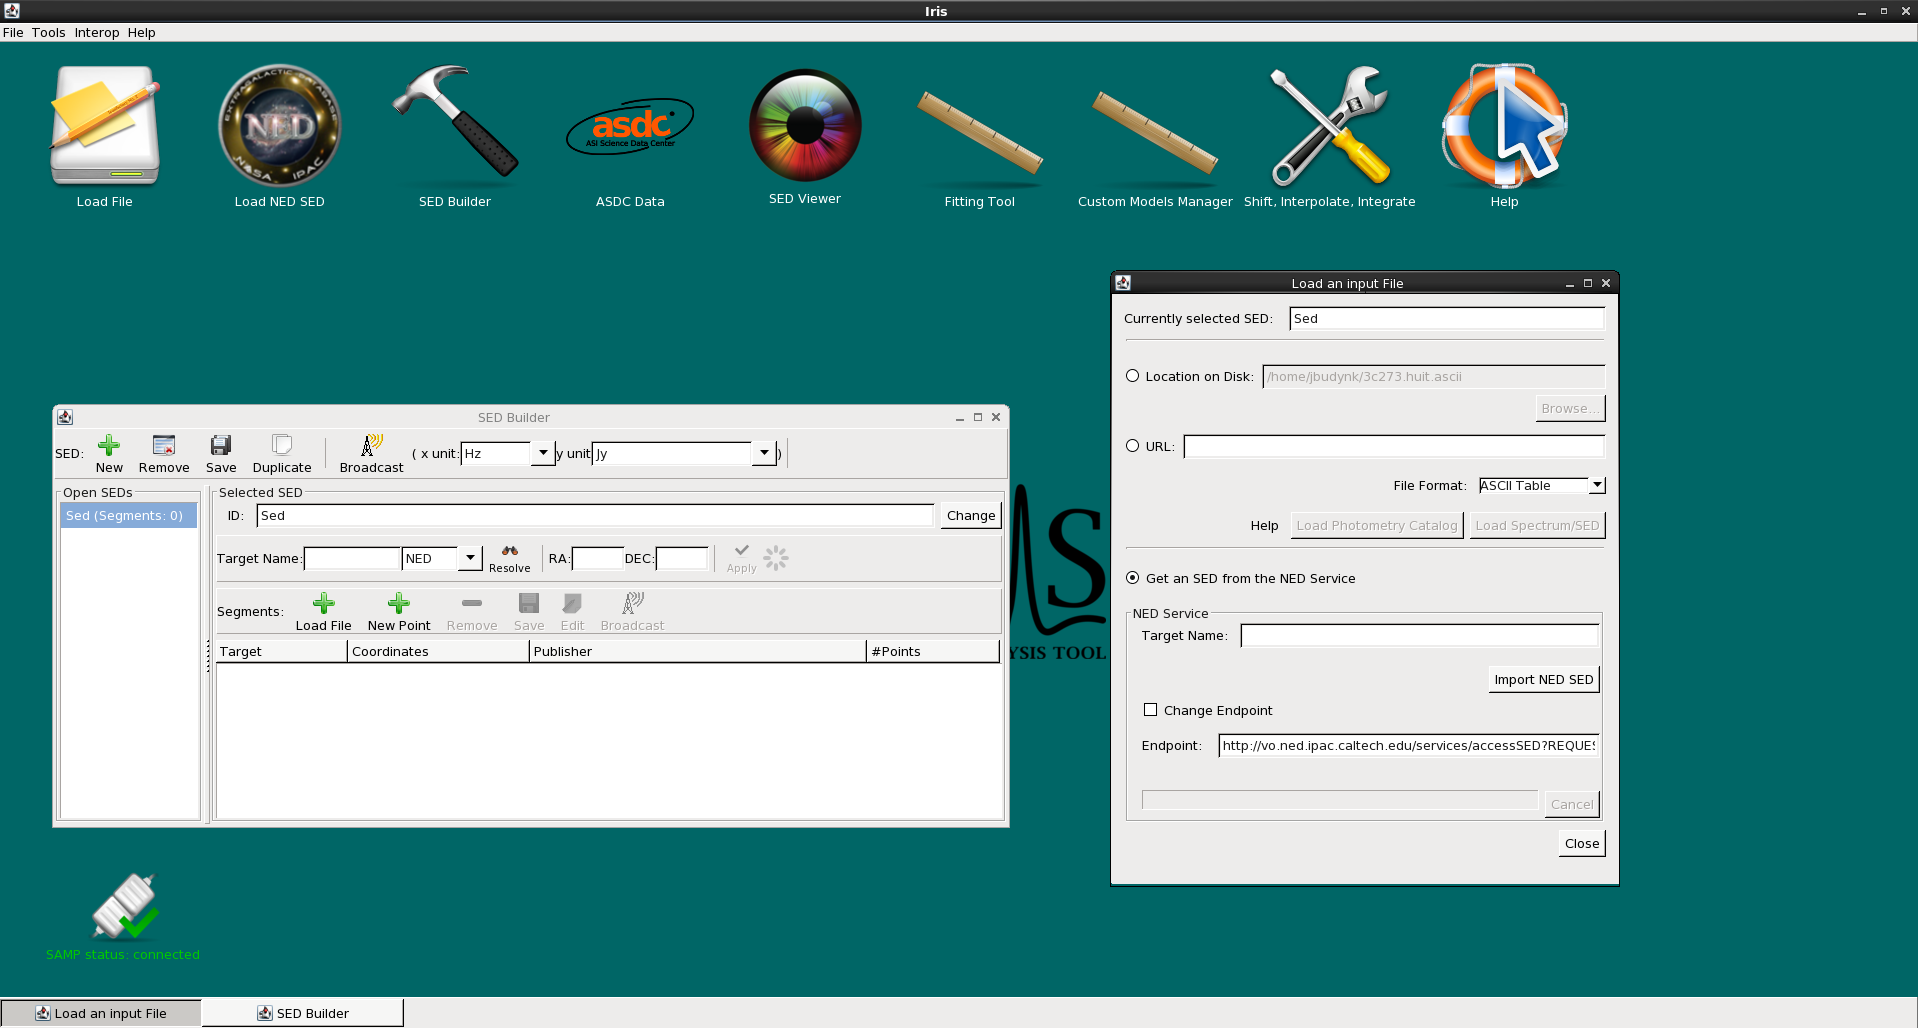
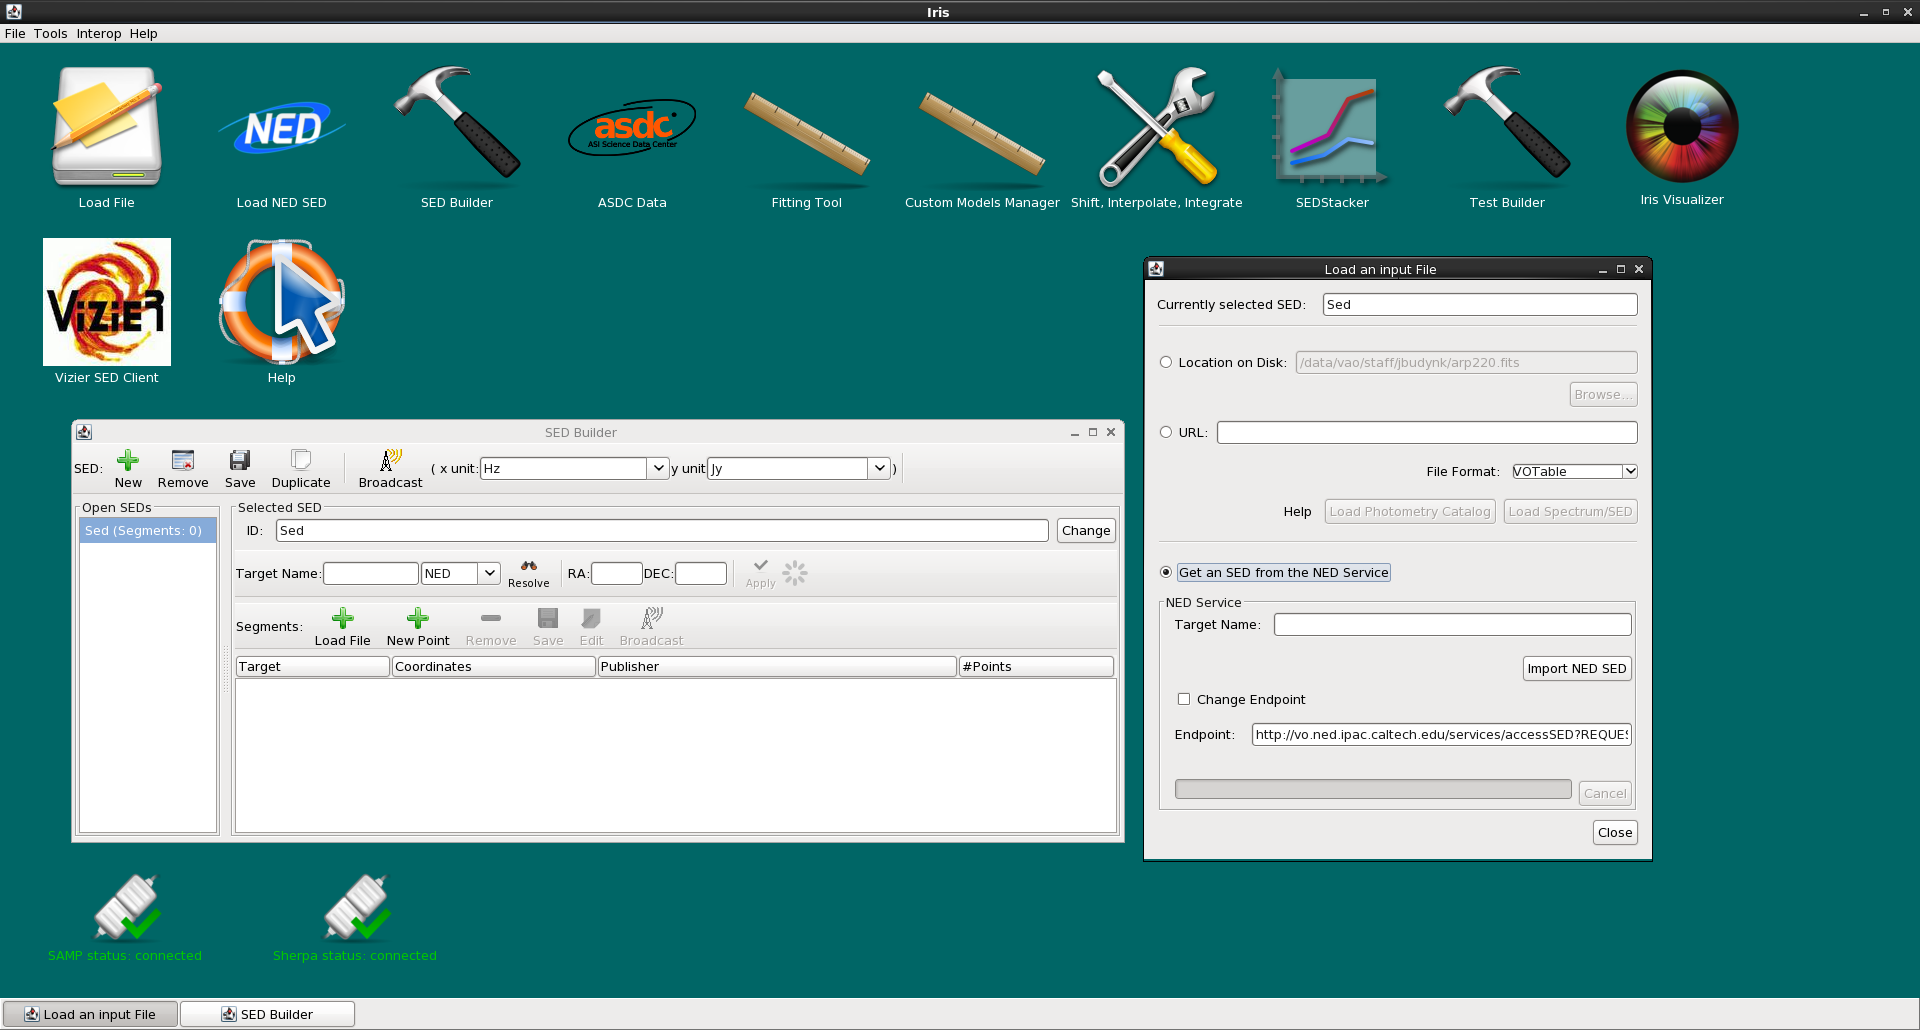
Update images and text for Iris 3.0

diff --git a/markdown/threads/importer/index.md b/markdown/threads/importer/index.md
@@ -146,7 +146,7 @@ $ iris &
 ```
 
 [![Iris desktop with SED Builder
-open](./imgs/load_file_windows_v2_small.jpg)](./imgs/load_file_windows_v2.png)
+open](./imgs/load_file_windows_v2_small.png)](./imgs/load_file_windows_v2.png)
 
 Then, according to the instructions in the "Loading Data into Iris"
 section of the [How-to Guide][guide], load your first (or
@@ -178,7 +178,7 @@ an entry for the SED will automatically display in the SED Builder
 window, and the data plot will appear in the Iris Visualizer.
 
 [![snapshot of Iris
-desktop](./imgs/loaded_ned_sed_v2_small.jpg)](./imgs/loaded_ned_sed_v2.png)
+desktop](./imgs/loaded_ned_sed_v2_small.png)](./imgs/loaded_ned_sed_v2.png)
 
 In the SED Builder window, you have the option of entering a target name
 and coordinates to be associated with the new SED, and recorded in the
@@ -193,7 +193,7 @@ Frame will open, prompting you to enter the conversion configuration for
 the loaded data so that it can be displayed in the Iris Visualizer.
 
 [![Import setup 
-frame](./imgs/import_setup_frame_v2_small.jpg)](./imgs/import_setup_frame_v2.png)
+frame](./imgs/import_setup_frame_v2_small.png)](./imgs/import_setup_frame_v2.png)
 
 An extra step of entering configuration information is also required of
 the user when the Load Photometry Catalog option is selected upon
@@ -201,7 +201,7 @@ loading data; the Photometry Catalog Import window will open, where you
 specify how to display the loaded photometric points.
 
 [![Iris photometry import
-frame](./imgs/catalog_import_v2_small.jpg)](./imgs/catalog_import_v2.png)
+frame](./imgs/catalog_import_v2_small.png)](./imgs/catalog_import_v2.png)
 
 |   |
 |--:|
@@ -322,7 +322,7 @@ catalog is similar to the method outlined for single photometric point.
 The contents of an example file are shown below, which contains one row
 of SDSS optical *ugriz* AB magnitudes for the quasar 3C273, downloaded
 from the
-[SkyServer](http://skyserver.sdss.org/dr3/en/tools/search/radial.asp)
+[SkyServer](http://skyserver.sdss.org/en/tools/search/radial.asp)
 interface in CSV format.
 
 ``` {.highlight}
@@ -388,7 +388,7 @@ magnitudes in our example - you can import the data into Iris by
 clicking the "Import Catalog to SED" button, which will open the Iris
 Visualizer and display the imported points.
 
-  [![Photometry Catalog Importer](./imgs/phot_import_ugriz_small.png)](./imgs/phot_import_ugriz.png)   [![Photometry Catalog Importer](./imgs/sdss_phot_cat_v2_small.jpg)](./imgs/sdss_phot_cat_v2.png)
+  [![Photometry Catalog Importer](./imgs/phot_import_ugriz_small.png)](./imgs/phot_import_ugriz.png)   [![Photometry Catalog Importer](./imgs/sdss_phot_cat_v2_small.png)](./imgs/sdss_phot_cat_v2.png)
 
 |   |
 |--:|
@@ -422,7 +422,7 @@ SED". We now see the NED photometric catalog (in blue squares and pink
 diamonds) overlaid on the SDSS photometric points, and see that the NED
 SED has been added into the "Segments" box in the SED Builder window.
 
-  [![\[snapshot of Iris GUI\]](./imgs/load_from_NED_small.png)](./imgs/load_from_NED.png)   [![\[snapshot of Iris GUI\]](./imgs/second_seg_v2_sdss-NED_small.jpg)](./imgs/second_seg_v2_sdss-NED.png)
+  [![\[snapshot of Iris GUI\]](./imgs/load_from_NED_small.png)](./imgs/load_from_NED.png)   [![\[snapshot of Iris GUI\]](./imgs/second_seg_v2_sdss-NED_small.png)](./imgs/second_seg_v2_sdss-NED.png)
 
 |   |
 |--:|
@@ -445,7 +445,7 @@ in the "Open SEDs" section along the left side of the window, as well as
 a new entry in the "Segments" section.
 
 [![snapshot of SED Builder
-GUI](./imgs/separate_seds_v2_small.jpg)](./imgs/separate_seds_v2.png)
+GUI](./imgs/separate_seds_v2_small.png)](./imgs/separate_seds_v2.png)
 
 After selecting the newly added SED in the "Open SEDS" section, you can
 add a segment or point using the "Load File" or "New Point" options in
@@ -861,7 +861,7 @@ the top of the SED Builder window. In this example, we choose to
 serialize the data in VOTable format.
 
 [![Setup file 
-example](./imgs/example_save_converted_arp220_IR.dat_small.jpg)](./imgs/example_save_converted_arp220_IR.dat.png)
+example](./imgs/example_save_converted_arp220_IR.dat_small.png)](./imgs/example_save_converted_arp220_IR.dat.png)
 
 Since we saved our ASCII conversion configuration to a setup file in the
 SED Builder interactive session, we may now run the tool
